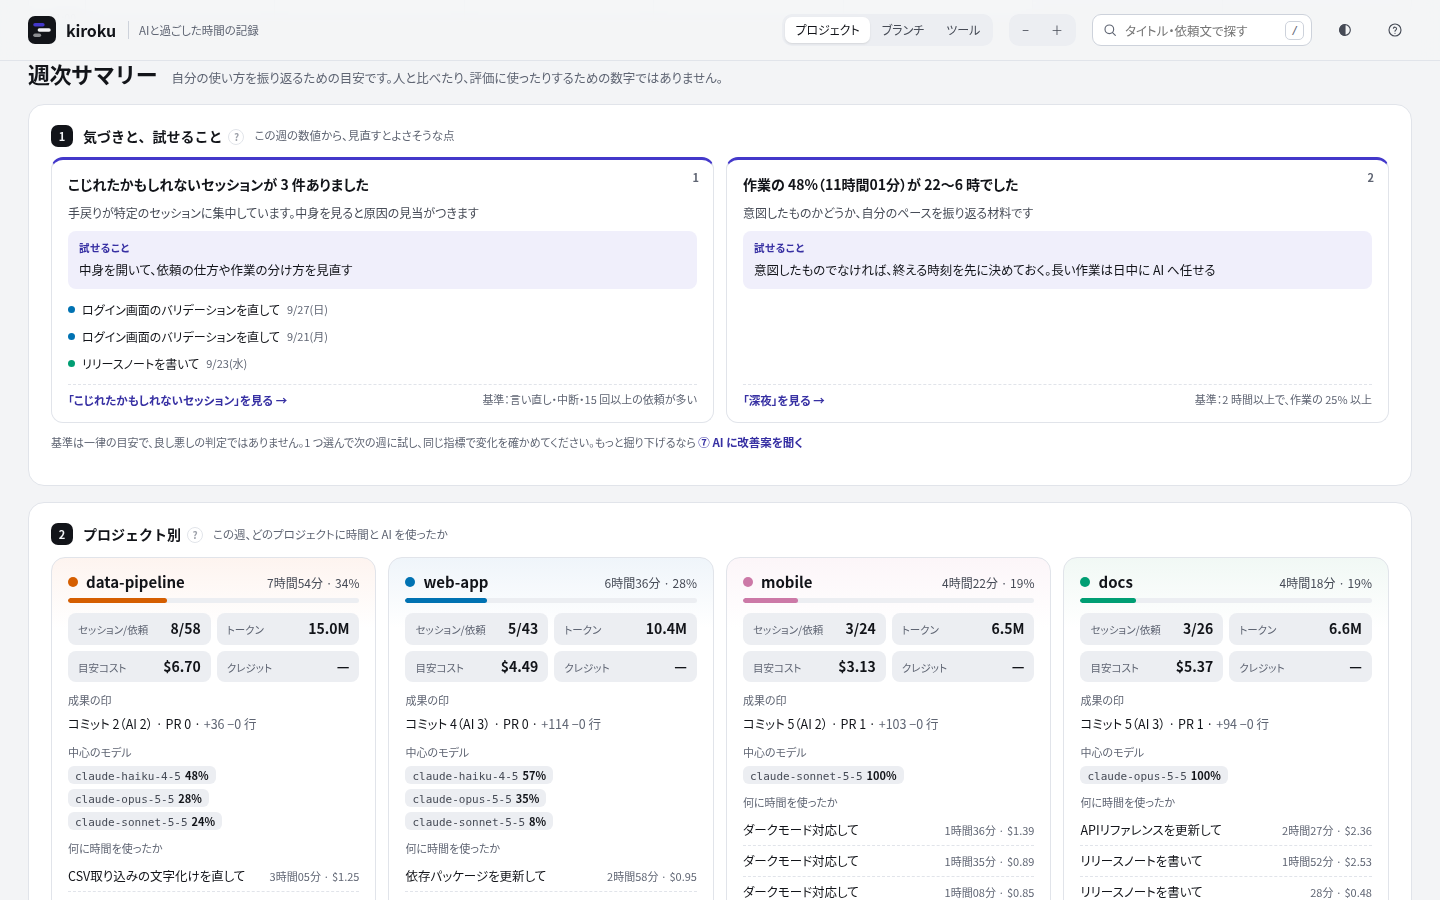
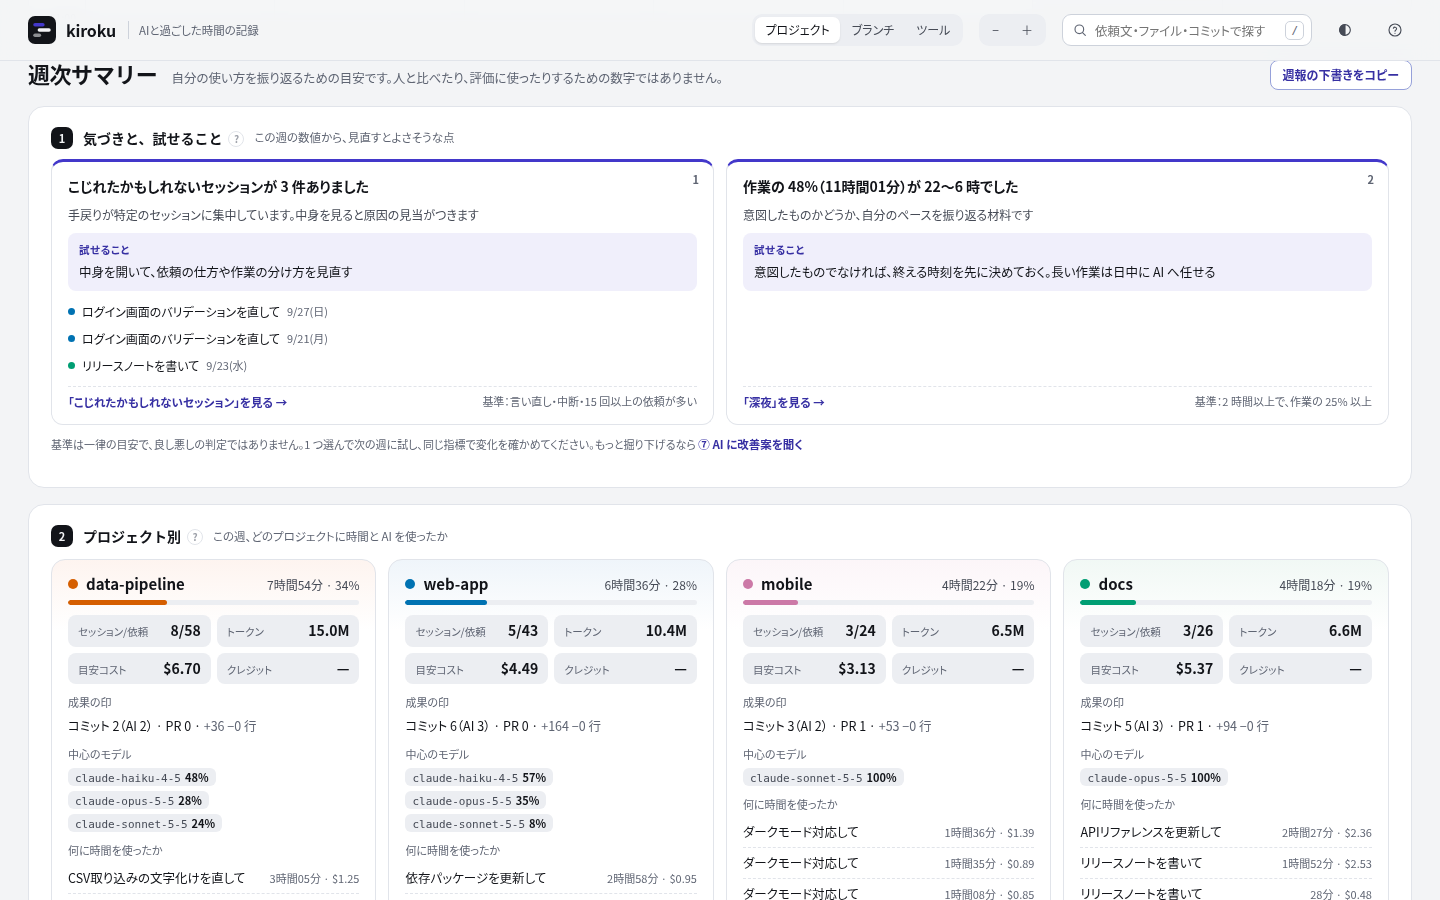
週報の下書きと、ファイル・コミットまで探せる全期間の検索を加える (#38)
- サマリーの見出しに「週報（月報）の下書きをコピー」：プロジェクトごとに、やったこと・コミット・PR を Markdown で
- 検索の対象を、変更したファイル・PR・セッションの間のコミット（件名・ハッシュ・ファイル）まで広げる
- 検索中は、サマリーの位置に全期間の検索結果（一致した箇所の抜粋つき）を出し、押すとその週と詳細を開く
- README・ガイド・スクリーンショットを更新

Claude-Session: https://claude.ai/code/session_01WXnCm54bK3Mj4QdxNoNc9j

diff --git a/docs/guide.md b/docs/guide.md
@@ -57,6 +57,8 @@ go install github.com/MichinaoShimizu/kiroku@latest
 - カレンダーの下に、週次・月次サマリーを表示します。いちばん上の ① 気づきと、試せること では、基準を超えた指標を「見えたこと・試せること・該当するセッション・基準」の形で優先度の高い順に 3 件まで示します。「〜を見る」を押すと元の指標へ移動し、説明を開きます。② プロジェクト別のカードでは、プロジェクトごとに「どのセッションに何時間、どれだけのトークン・目安コスト・クレジットを、どのモデルを中心に使い、どれが最も重かったか」と成果の印を示します。③ コストと成果では、使ったもの（作業時間・目安コスト・トークン・クレジット）と残ったもの（コミット・PR・変更した行など）を並べます。続いて ④ 時間の使い方 ⑤ AI の使い方 ⑥ 週 / 月のかたち、最後に ⑦ AI に改善案を聞く が表示されます
 - 各指標の「?」を押すと、定義と、そこから言えること・言えないこと・打てる手を表示します
 - 「AI に改善案を聞く」には、表示中の週・月の集計をもとに、使い方の改善案を AI に聞くためのプロンプトを表示します。「プロンプトをコピー」でコピーし、お使いの AI エージェントに貼り付けて使います（kiroku 自身は AI を呼び出しません）。セッション名（依頼文の一部）とプロジェクト名を含むため、送る前に内容を確認してください
+- 検索（右上、`/`）：依頼文・タイトル・プロジェクト・ブランチに加えて、変更したファイル・PR・そのセッションの間のコミット（件名・ハッシュ・ファイル）も探します。カレンダーは一致したセッションだけを表示し、サマリーの位置に全期間の検索結果（どこに一致したかの抜粋つき）を表示します。結果を押すと、その週を開いて詳細を表示します
+- 週報・月報の下書き：サマリーの見出しの「週報の下書きをコピー」で、プロジェクトごとに、やったこと（セッション名）・コミット・PR を Markdown でコピーします。セッション名は依頼文の冒頭なので、共有する前に確認・編集してください
 - キーボード操作：`←` `→` で週・月を移動、`T` で今週・今月、`W` `M` で週・月を切り替え、`/` で検索、`+` `−` でズーム、`Esc` で詳細を閉じる、`?` で一覧を表示
 - テーマは自動・ライト・ダークから選べます（右上のボタン）。色分け・ズーム・テーマの設定はブラウザに保存されます
 - スマートフォンの画面幅では、週カレンダーを横にスクロールでき、サマリーは 1 列で表示します
